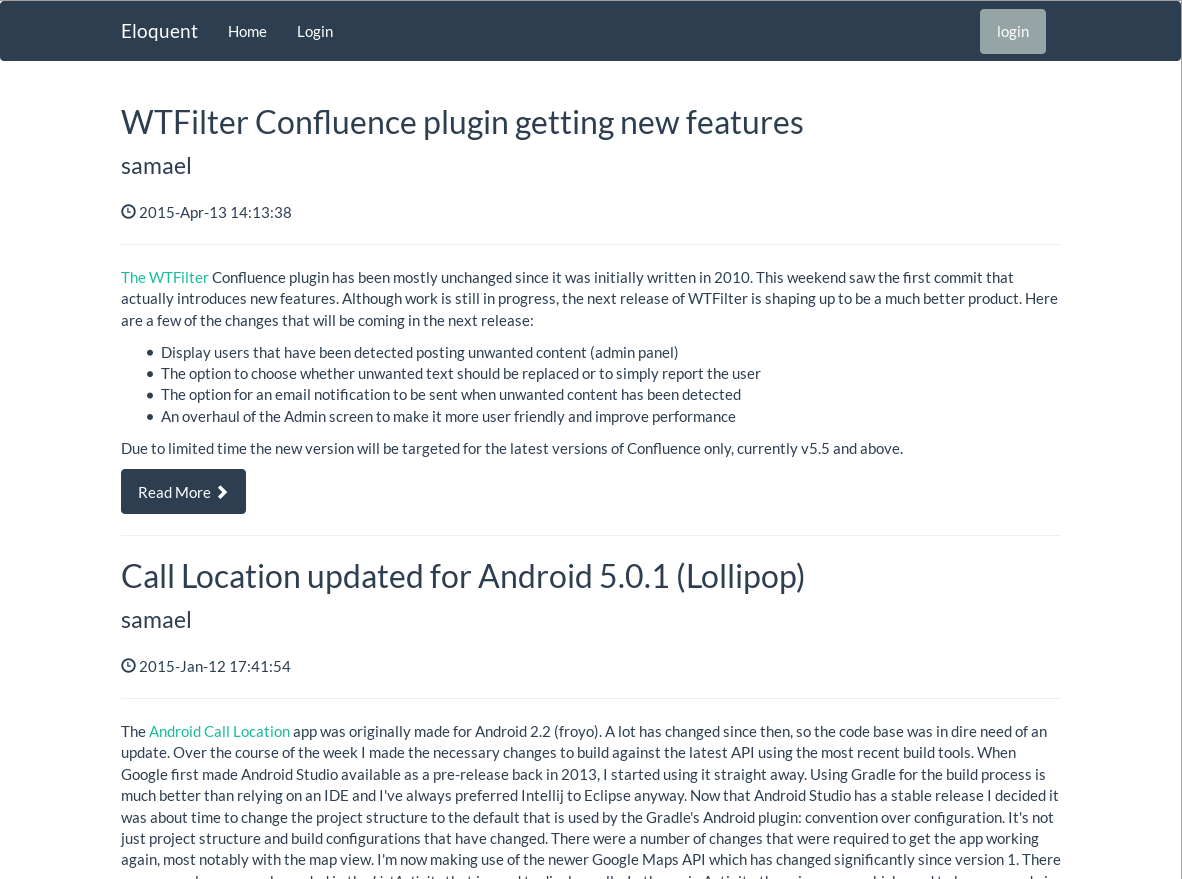
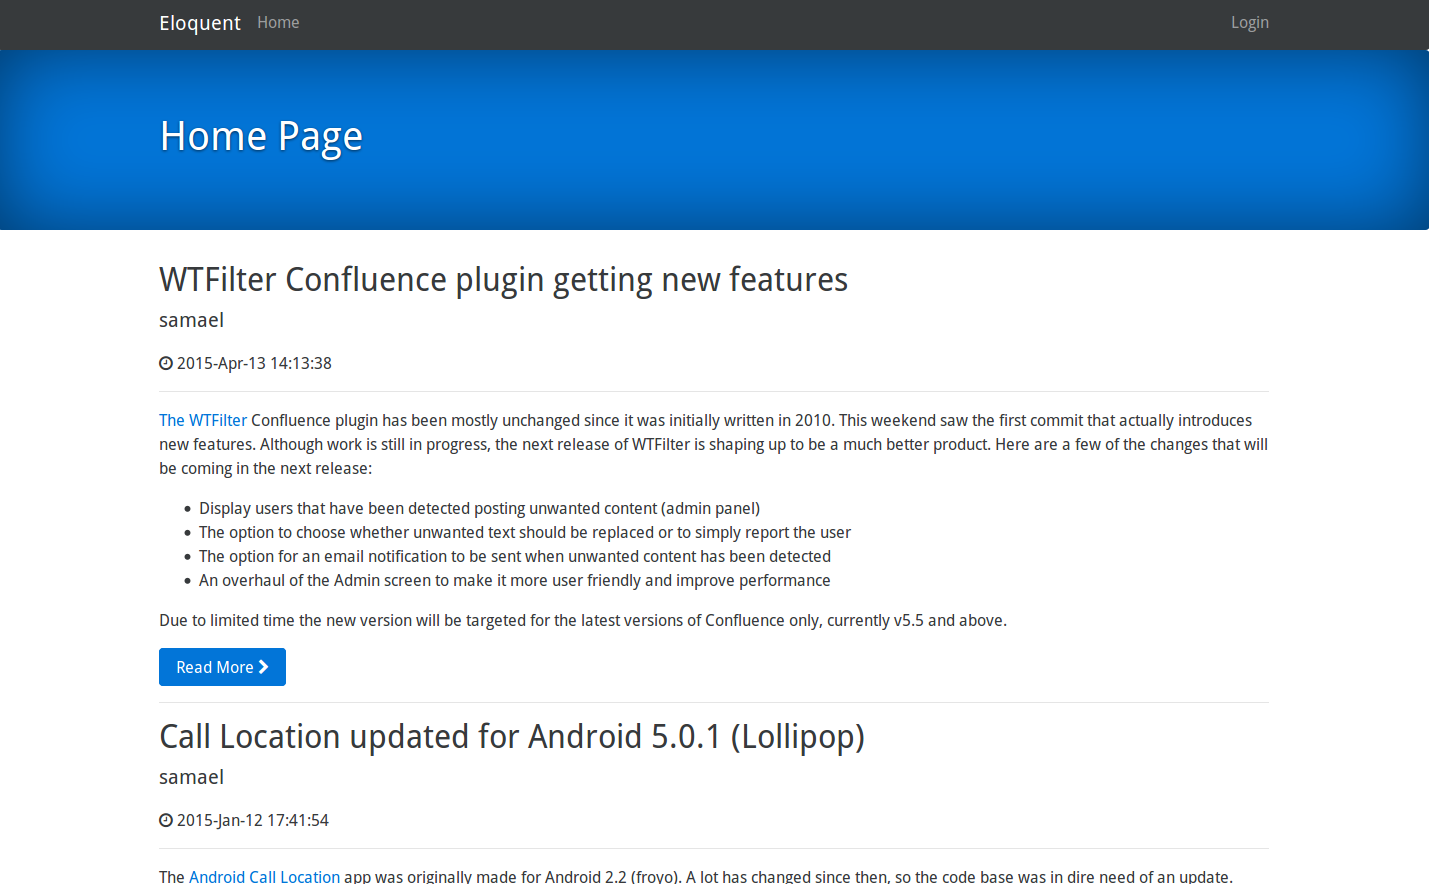
minor layout changes

diff --git a/public/styles/style.css b/public/styles/style.css
@@ -2,3 +2,11 @@
 body {
 	font-family: 'Droid Sans', serif;
 }
+
+.jumbotron-primary {
+	/*background-color: rgba(54, 55, 197, 0.87);*/
+	background-color: #0275d8; /* Same Blue that is used by Bootstrap */
+	box-shadow: inset 0 0 5rem rgba(0,0,0,.5);
+	color: #fff;
+	text-shadow: 0 1px 2px rgba(0, 0, 0, 0.6);
+}
